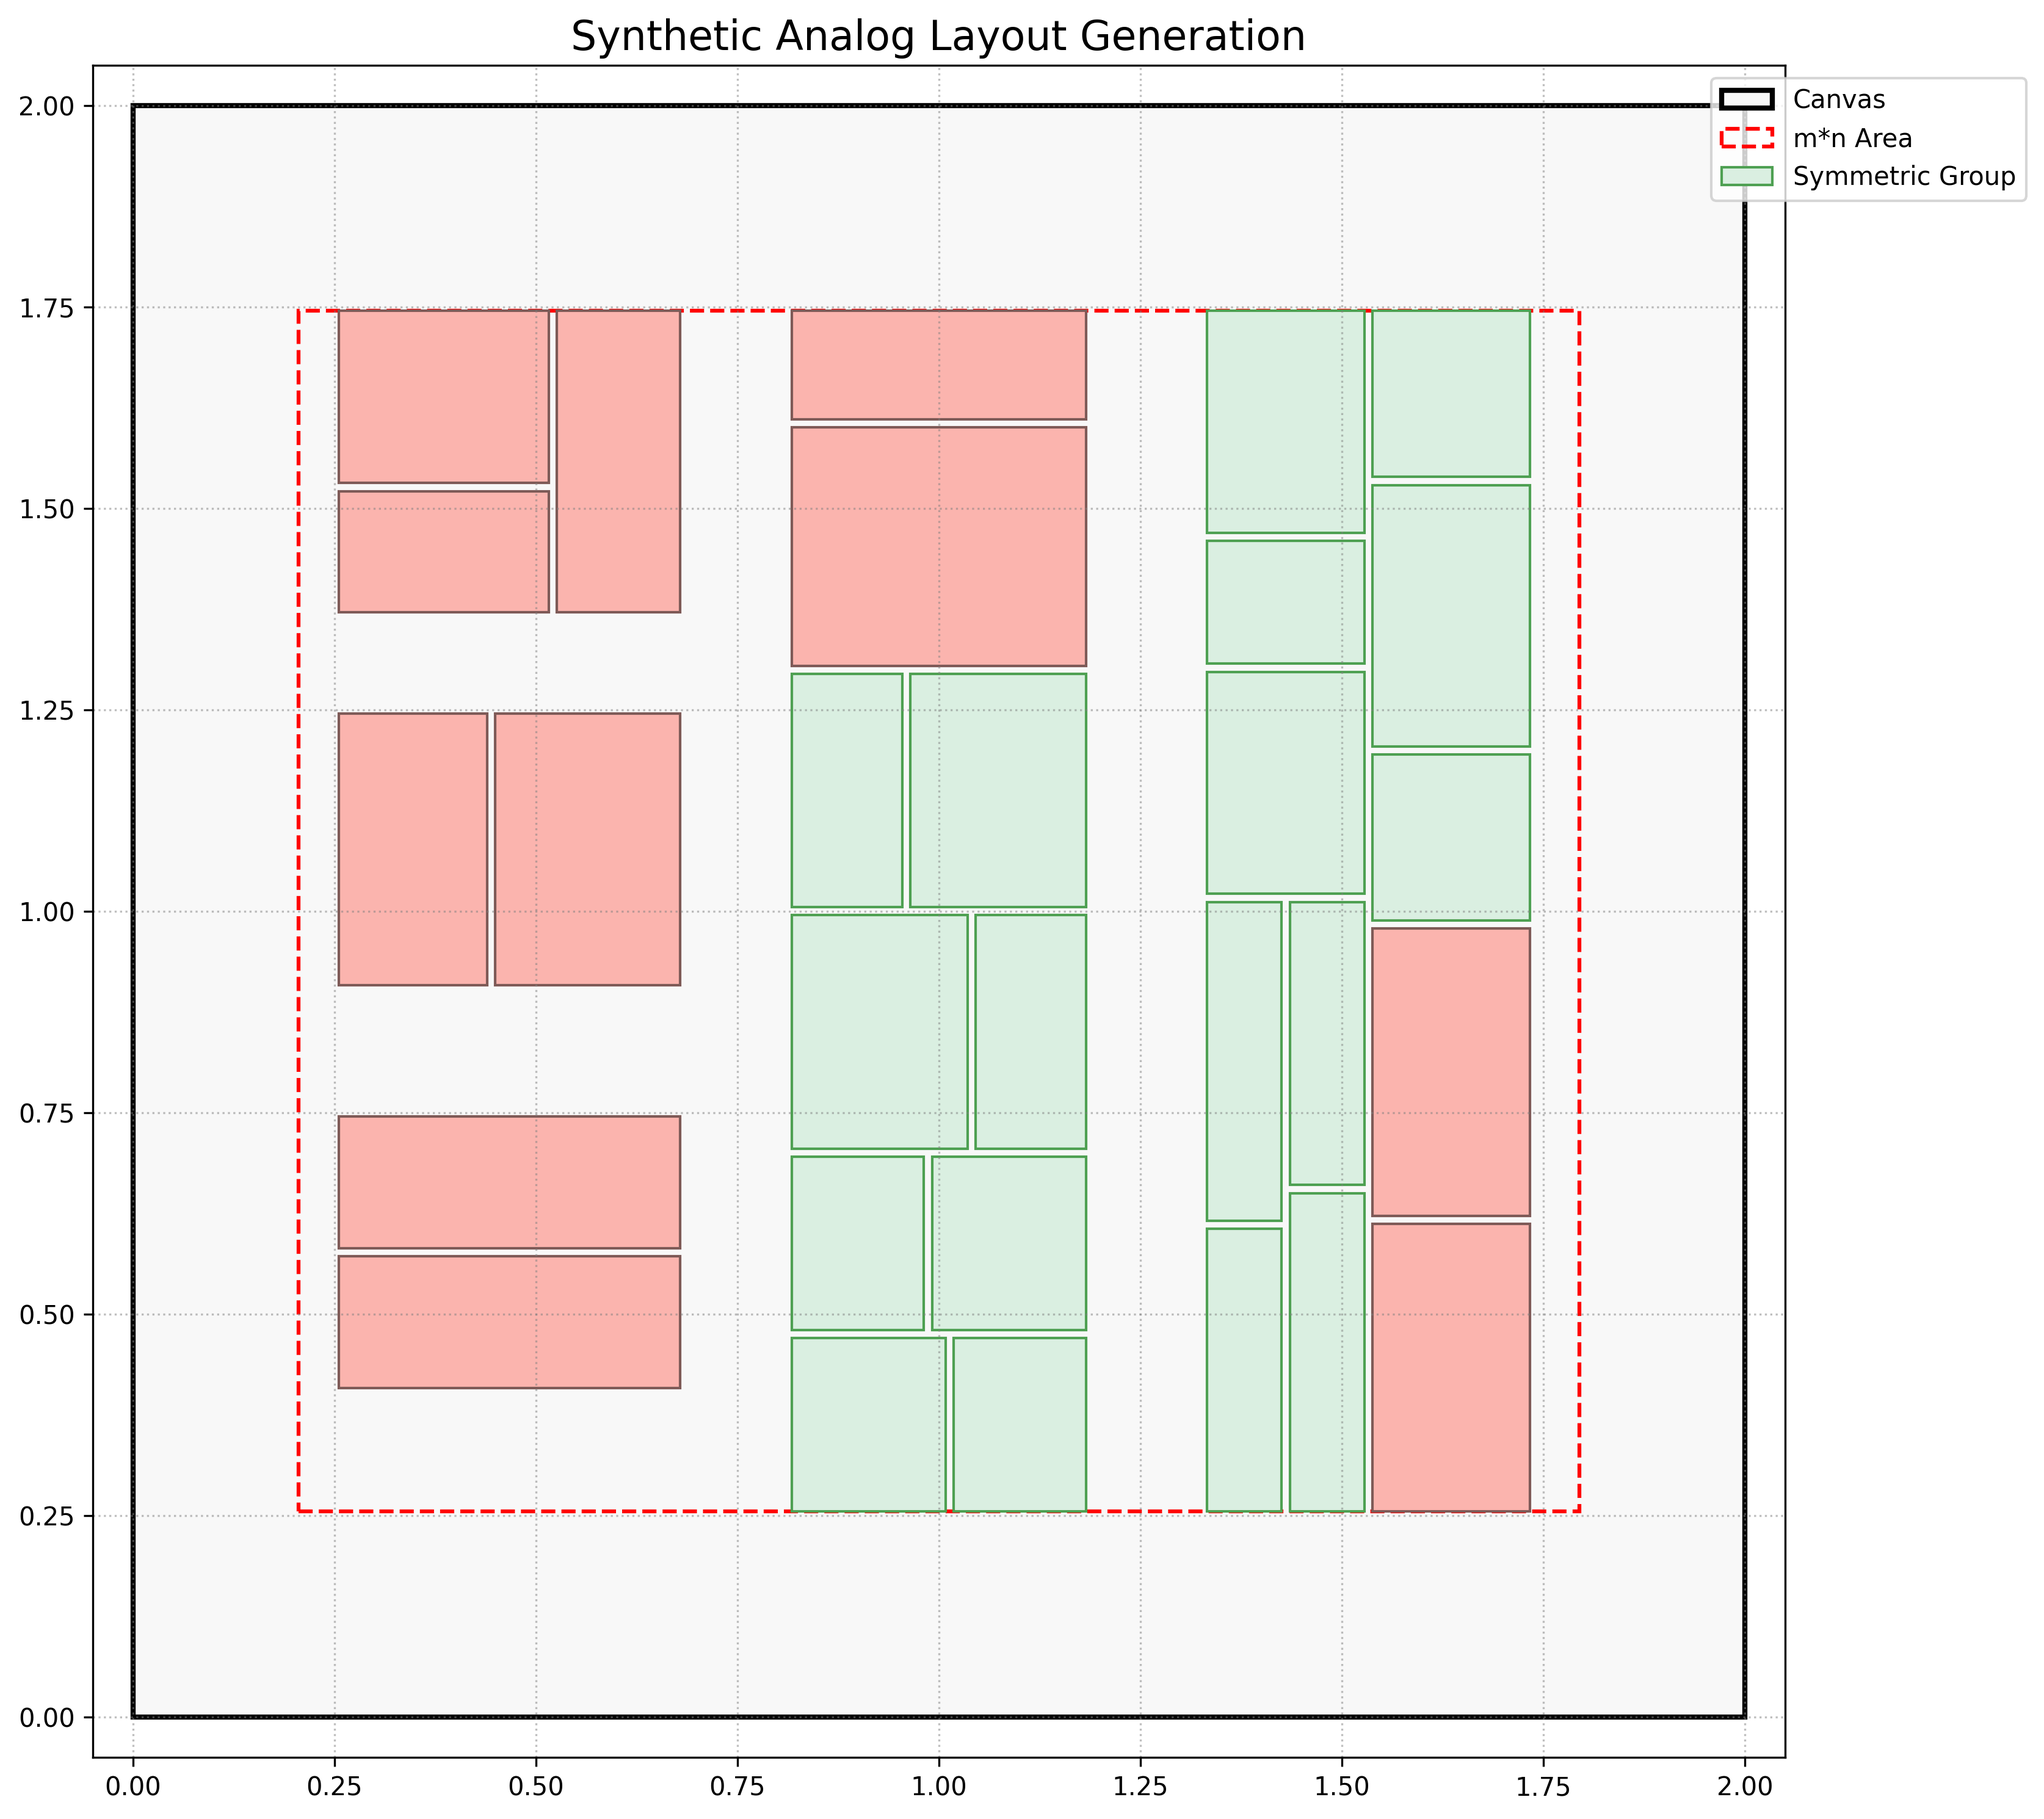
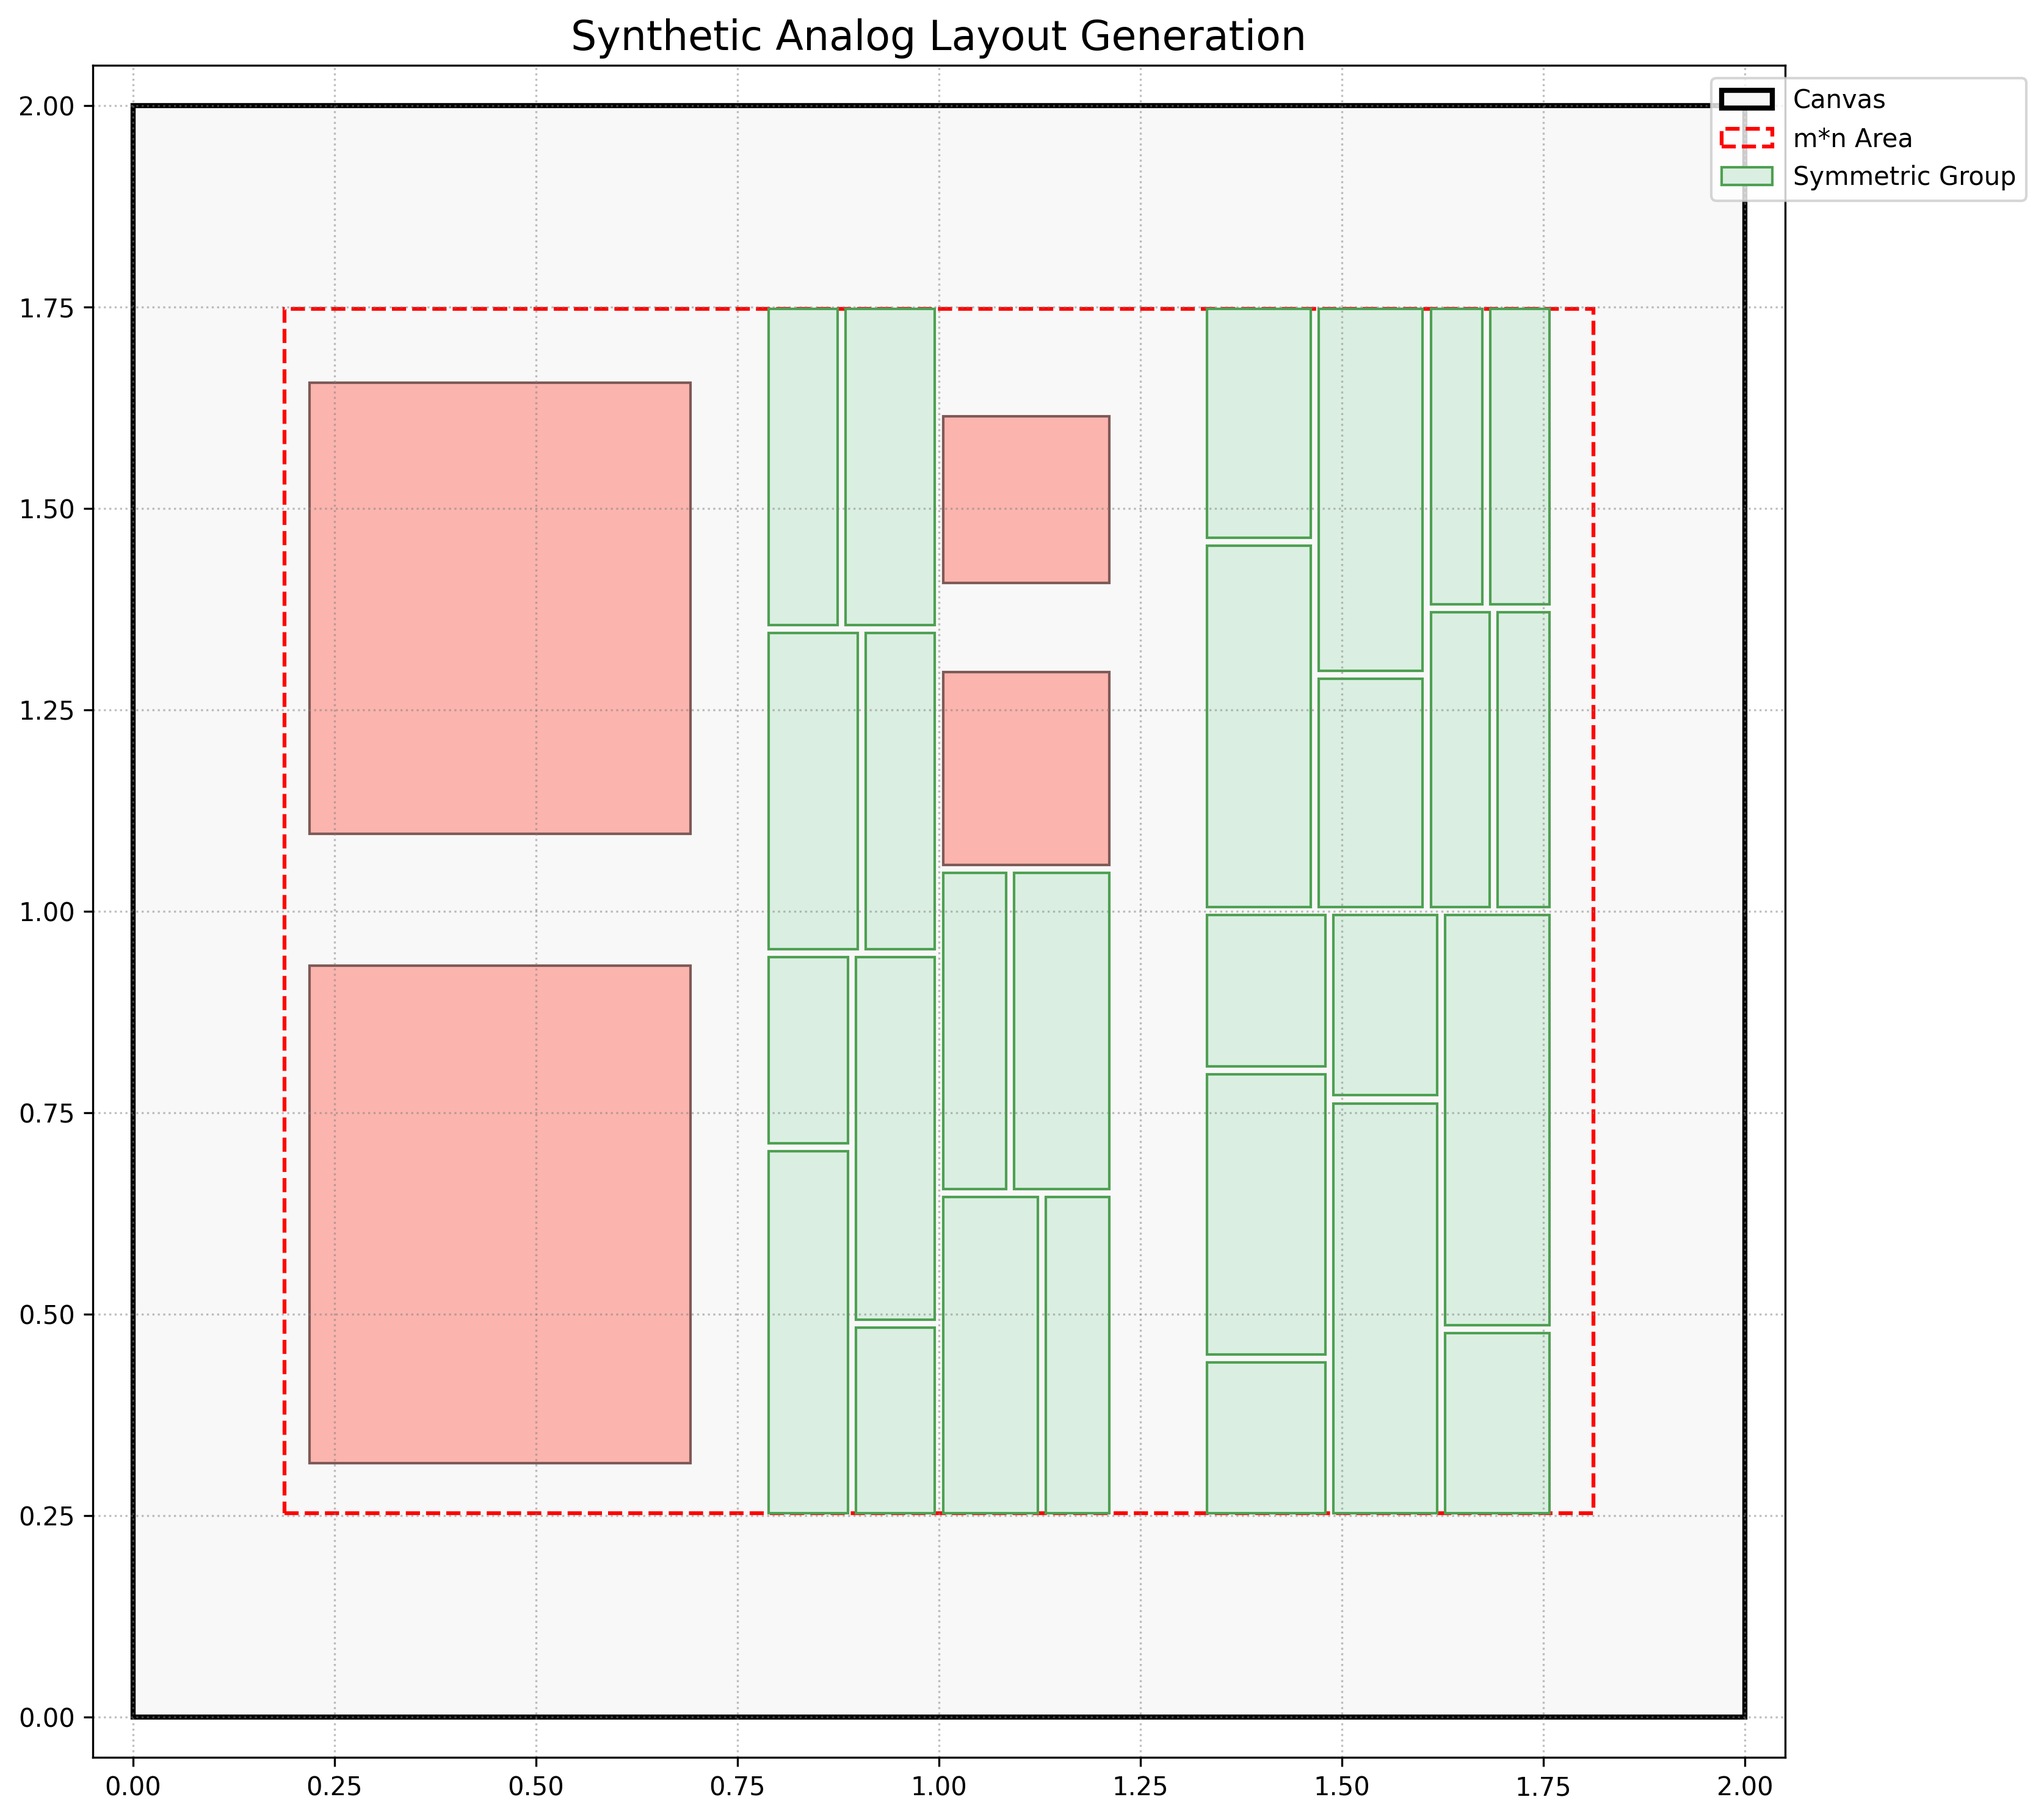
Feat: add weight setting for components

Changed region(s): [[0.1243, 0.156, 0.3417, 0.8426], [0.3728, 0.156, 0.5591, 0.8426], [0.5902, 0.156, 0.7766, 0.8426]]

diff --git a/main.py b/main.py
@@ -9,7 +9,7 @@ from component import Component
 from rule_engine import RuleSelector
 from visualization import visualize_placements
 
-# 'SYMMETRIC_RULES', 'process_component_recursively', 'check_overlap' 函式維持不變...
+# 'SYMMETRIC_RULES', 'check_overlap', 'reduce_components_to_target' 函式維持不變...
 SYMMETRIC_RULES = [
     "mirrored_vertical",
     "mirrored_horizontal",
@@ -18,16 +18,28 @@ SYMMETRIC_RULES = [
     "triplet_horizontal",
 ]
 
+# --- 主要修改處：process_component_recursively 函式 ---
 def process_component_recursively(component: Component, rule_selector: RuleSelector, max_depth: int) -> List[Component]:
     """遞迴地對一個元件應用切割規則，直到達到最大深度。"""
     if component.level >= max_depth:
         return [component]
 
-    rule_to_apply = random.choice(list(rule_selector.rules.keys()))
+    # --- 修改開始 ---
+    # 1. 取得所有可用的規則名稱
+    available_rules = list(rule_selector.rules.keys())
+    
+    # 2. 根據 config.py 中的設定，為每個規則建立對應的權重列表
+    #    使用 .get(rule, 1) 來確保即使有規則未在權重字典中定義，也會給予一個預設權重 1
+    weights = [config.RULE_WEIGHTS.get(rule, 1) for rule in available_rules]
+    
+    # 3. 使用加權隨機選擇（random.choices）來決定要應用的規則
+    #    random.choices 會回傳一個列表，所以我們用 [0] 來取得唯一的選擇
+    rule_to_apply = random.choices(available_rules, weights=weights, k=1)[0]
+    # --- 修改結束 ---
+
     mode_to_apply = "keep_all" 
 
     params = {"gap": config.COMPONENT_GAP}
-    # ... (其餘參數設定維持不變) ...
     if rule_to_apply in ["vertical", "horizontal"]:
         params["ratio"] = random.uniform(0.3, 0.7)
     elif rule_to_apply == "quadrants":
@@ -68,7 +80,6 @@ def check_overlap(comp1: Component, comp2: Component) -> bool:
                 comp1.y + comp1.height < comp2.y or
                 comp2.y + comp2.height < comp1.y)
 
-# --- 新增的合併函式 ---
 def reduce_components_to_target(components: List[Component], target_count: int, gap: float) -> List[Component]:
     """
     透過合併相鄰的元件來減少元件總數，直到等於目標數量。
@@ -78,131 +89,80 @@ def reduce_components_to_target(components: List[Component], target_count: int, 
         best_pair_to_merge = None
         min_combined_area = float('inf')
         merged_props = {}
-        
-        # 使用一個微小的容錯值來比較浮點數
         TOLERANCE = 1e-5
-
-        # 遍歷所有可能的元件對，尋找最佳合併目標
         for i in range(len(components)):
             for j in range(i + 1, len(components)):
                 comp1 = components[i]
                 comp2 = components[j]
-
-                # 檢查是否可以水平合併 (comp1 在左，comp2 在右)
                 if abs(comp1.x + comp1.width + gap - comp2.x) < TOLERANCE and \
                    abs(comp1.y - comp2.y) < TOLERANCE and \
                    abs(comp1.height - comp2.height) < TOLERANCE:
-                    
                     combined_area = (comp1.width * comp1.height) + (comp2.width * comp2.height)
                     if combined_area < min_combined_area:
                         min_combined_area = combined_area
                         best_pair_to_merge = (comp1, comp2)
-                        merged_props = {
-                            'x': comp1.x, 'y': comp1.y,
-                            'width': comp1.width + comp2.width + gap,
-                            'height': comp1.height
-                        }
-
-                # 檢查是否可以垂直合併 (comp1 在下，comp2 在上)
+                        merged_props = {'x': comp1.x, 'y': comp1.y, 'width': comp1.width + comp2.width + gap, 'height': comp1.height}
                 elif abs(comp1.y + comp1.height + gap - comp2.y) < TOLERANCE and \
                      abs(comp1.x - comp2.x) < TOLERANCE and \
                      abs(comp1.width - comp2.width) < TOLERANCE:
-
                     combined_area = (comp1.width * comp1.height) + (comp2.width * comp2.height)
                     if combined_area < min_combined_area:
                         min_combined_area = combined_area
                         best_pair_to_merge = (comp1, comp2)
-                        merged_props = {
-                            'x': comp1.x, 'y': comp1.y,
-                            'width': comp1.width,
-                            'height': comp1.height + comp2.height + gap
-                        }
-        
-        # 如果找到了可以合併的一對，就執行合併
+                        merged_props = {'x': comp1.x, 'y': comp1.y, 'width': comp1.width, 'height': comp1.height + comp2.height + gap}
         if best_pair_to_merge:
             comp_to_remove1, comp_to_remove2 = best_pair_to_merge
-            
-            new_component = Component(
-                x=merged_props['x'], y=merged_props['y'],
-                width=merged_props['width'], height=merged_props['height'],
-                group_id=min(comp_to_remove1.group_id, comp_to_remove2.group_id),
-                level=min(comp_to_remove1.level, comp_to_remove2.level)
-            )
-            
+            new_component = Component(x=merged_props['x'], y=merged_props['y'], width=merged_props['width'], height=merged_props['height'], group_id=min(comp_to_remove1.group_id, comp_to_remove2.group_id), level=min(comp_to_remove1.level, comp_to_remove2.level))
             components.remove(comp_to_remove1)
             components.remove(comp_to_remove2)
             components.append(new_component)
             print(f"策略 [合併] 成功：2 個元件合併為 1 個。目前總數: {len(components)}")
         else:
             print("警告：策略 [合併] 失敗，找不到任何可合併的相鄰元件。無法精確達到目標數量。")
-            break # 如果找不到任何可合併的對象，就終止迴圈
-
+            break
     return components
 
 def main():
     """主執行函式"""
-    # --- 從範圍中選定一個確切的目標數量 ---
     target_min, target_max = config.TOTAL_COMPONENT_COUNT_RANGE
     target_count = random.randint(target_min, target_max)
-    
-    # ... (計算 m*n 尺寸的程式碼維持不變) ...
     target_area = random.uniform(config.MN_RECT_AREA_RANGE[0], config.MN_RECT_AREA_RANGE[1])
     aspect_ratio = random.uniform(config.MN_ASPECT_RATIO_RANGE[0], config.MN_ASPECT_RATIO_RANGE[1])
     mn_rect_height = math.sqrt(target_area / aspect_ratio)
     mn_rect_width = aspect_ratio * mn_rect_height
-    
     if mn_rect_width >= config.CANVAS_WIDTH or mn_rect_height >= config.CANVAS_HEIGHT:
         print(f"警告：隨機生成的 m*n 尺寸 ({mn_rect_width:.2f}x{mn_rect_height:.2f}) 過大，將使用最小面積與正方形。")
         fallback_area = config.MN_RECT_AREA_RANGE[0]
         mn_rect_height = math.sqrt(fallback_area)
         mn_rect_width = mn_rect_height
-    
     print(f"本次 m*n 矩形尺寸: {mn_rect_width:.2f} x {mn_rect_height:.2f} (長寬比: {aspect_ratio:.2f})")
     print(f"本次隨機目標元件總數: {target_count} (範圍: {config.TOTAL_COMPONENT_COUNT_RANGE})")
-    
     rule_selector = RuleSelector()
     all_final_components = []
-    
     mn_center_x = (config.CANVAS_WIDTH - mn_rect_width) / 2
     mn_center_y = (config.CANVAS_HEIGHT - mn_rect_height) / 2
-
-    # --- 步驟 1 & 2: 動態尋找中心區域切割深度 ---
     print(f"\n--- 步驟 1 & 2: 動態尋找中心區域切割深度 ---")
     center_components = []
     initial_component = Component(x=mn_center_x, y=mn_center_y, width=mn_rect_width, height=mn_rect_height, group_id=0, level=0)
-    
     best_trial_components = [initial_component]
     min_diff = float('inf')
-
-    # 改為尋找最接近目標數量的深度，而不是第一個超過的
     for k in range(1, config.MAX_K_ITERATIONS + 2):
         trial_components = process_component_recursively(initial_component, rule_selector, k)
         print(f"嘗試深度 k={k}，生成 {len(trial_components)} 個元件...")
-
-        # 如果生成數量超過範圍太多，就停止
         if len(trial_components) > target_max * 1.5:
              print(f"已遠超出目標範圍，採用上一個最接近的結果。")
              break
-        
-        # 找到一個比目前更好的（更接近目標的）結果
         diff = abs(len(trial_components) - target_count)
         if diff < min_diff:
             min_diff = diff
             best_trial_components = trial_components
-            # 如果剛好等於，那就太棒了，直接用這個結果
             if diff == 0:
                 break
-    
     center_components = best_trial_components
     all_final_components.extend(center_components)
     print(f"中心區域最終生成了 {len(center_components)} 個元件。")
-
-
-    # --- 主要修改處：擴充為增加、減少、或不變三種情況 ---
     if len(all_final_components) < target_count:
-        # 維持原有的「增加」邏輯
         print(f"\n--- 步驟 3 & 4: 元件數量 ({len(all_final_components)}) 低於目標 {target_count}，開始精細調整 ---")
-        # ... (此處的增加邏輯與前一版完全相同) ...
         filler_group_id_counter = 1
         while len(all_final_components) < target_count:
             placement_successful = False
@@ -243,17 +203,11 @@ def main():
                 else:
                     print(f"錯誤：策略 [切割] 失敗，最大元件在兩個方向上都無法被切割。")
                     break
-    
     elif len(all_final_components) > target_count:
-        # 新增的「減少」邏輯
         print(f"\n--- 步驟 5: 元件數量 ({len(all_final_components)}) 高於目標 {target_count}，開始合併 ---")
         all_final_components = reduce_components_to_target(all_final_components, target_count, config.COMPONENT_GAP)
-
     else:
-        # 數量剛好
         print(f"\n中心元件數量 ({len(all_final_components)}) 已精確滿足目標 {target_count}，無需調整。")
-
-
     print(f"\n--- 目標達成，總共生成 {len(all_final_components)} 個元件。開始繪圖... ---")
     visualize_placements(all_final_components, (config.CANVAS_WIDTH, config.CANVAS_HEIGHT), (mn_rect_width, mn_rect_height))
     print("圖檔已儲存為 synthetic_layout.png")

diff --git a/config.py b/config.py
@@ -24,3 +24,26 @@ COMPONENT_GAP = 0.01      # 元件間的最小間隙
 
 # --- 元件幾何限制 ---
 MAX_ASPECT_RATIO = 6.0    # 元件的寬高比或高寬比最大值
+
+# --- 新增：規則選擇權重 ---
+# 數值越大，該規則被選中的機率越高。
+# 您可以根據需求調整這些權重。
+RULE_WEIGHTS = {
+    # --- 基本不對稱規則 ---
+    "vertical": 8,
+    "horizontal": 8,
+    "quadrants": 6,
+    "aligned": 4,
+    
+    # --- 對稱規則 (依照您的要求調整) ---
+    # 1. 水平/垂直鏡像對稱 (最高機率)
+    "mirrored_vertical": 12,
+    "mirrored_horizontal": 12,
+    
+    # 2. 共質心對稱 (中等機率)
+    "common_centroid": 7,
+    
+    # 3. 三元件對稱 (最低機率)
+    "triplet_vertical": 2,
+    "triplet_horizontal": 2,
+}
